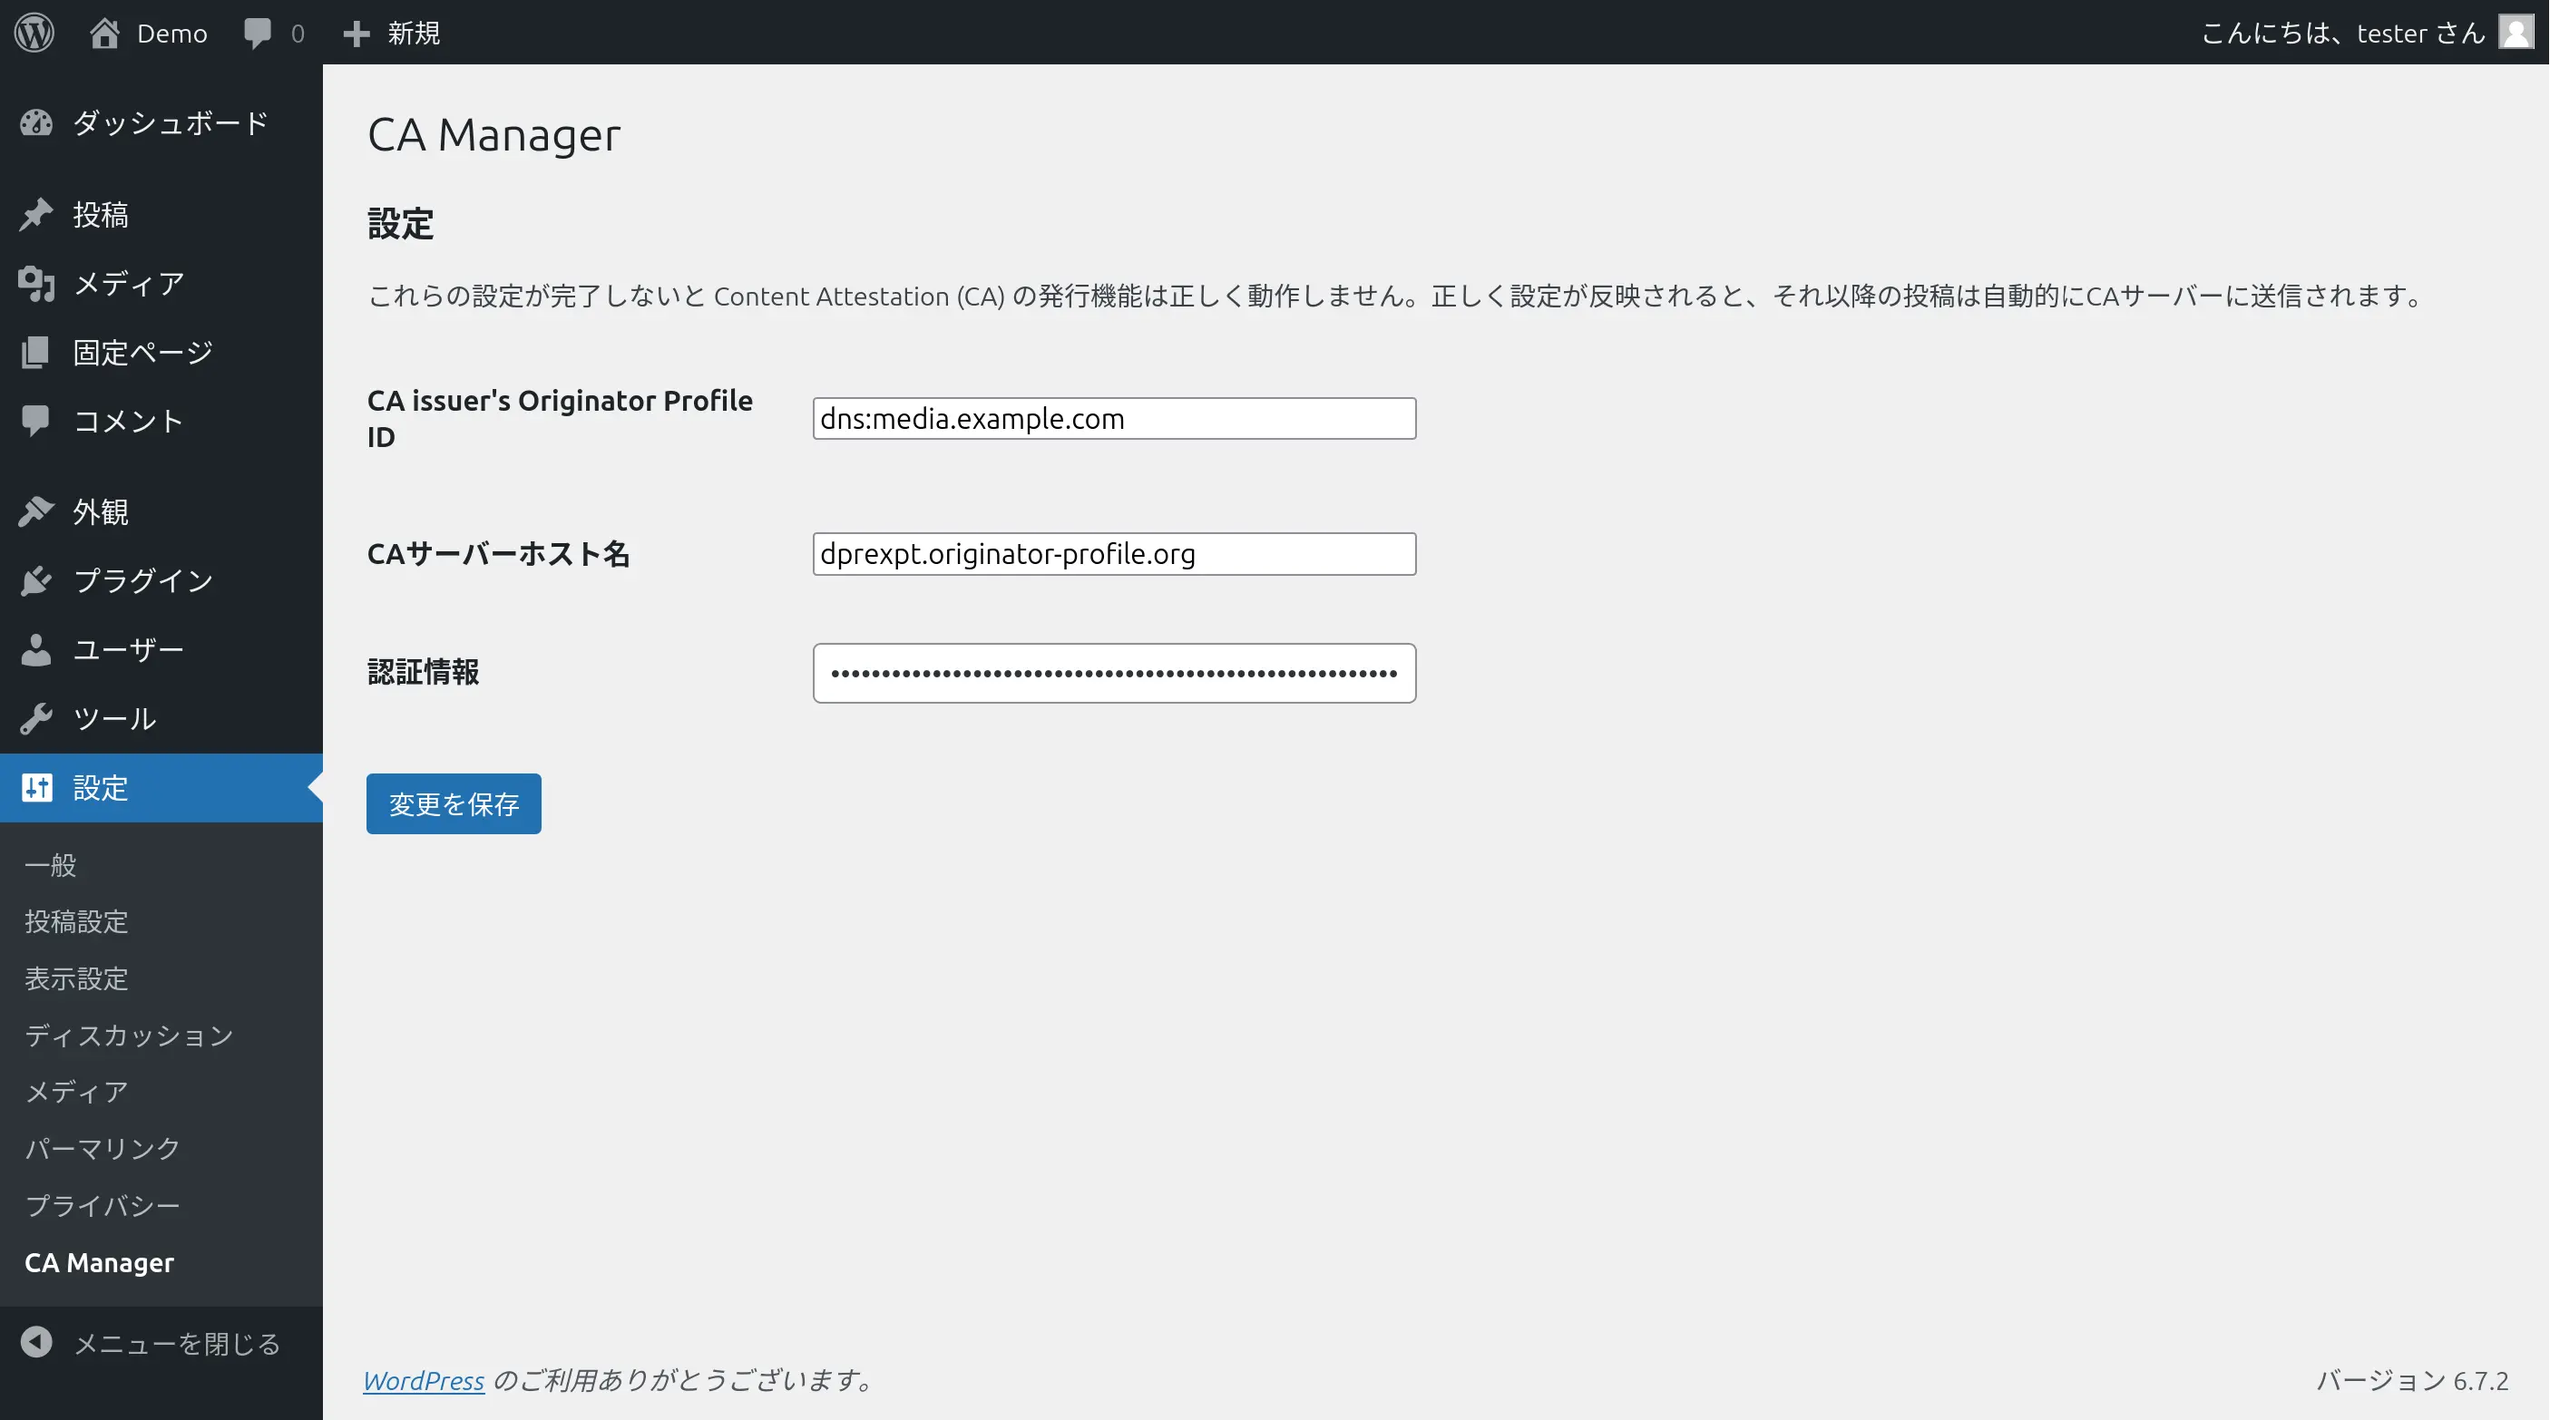
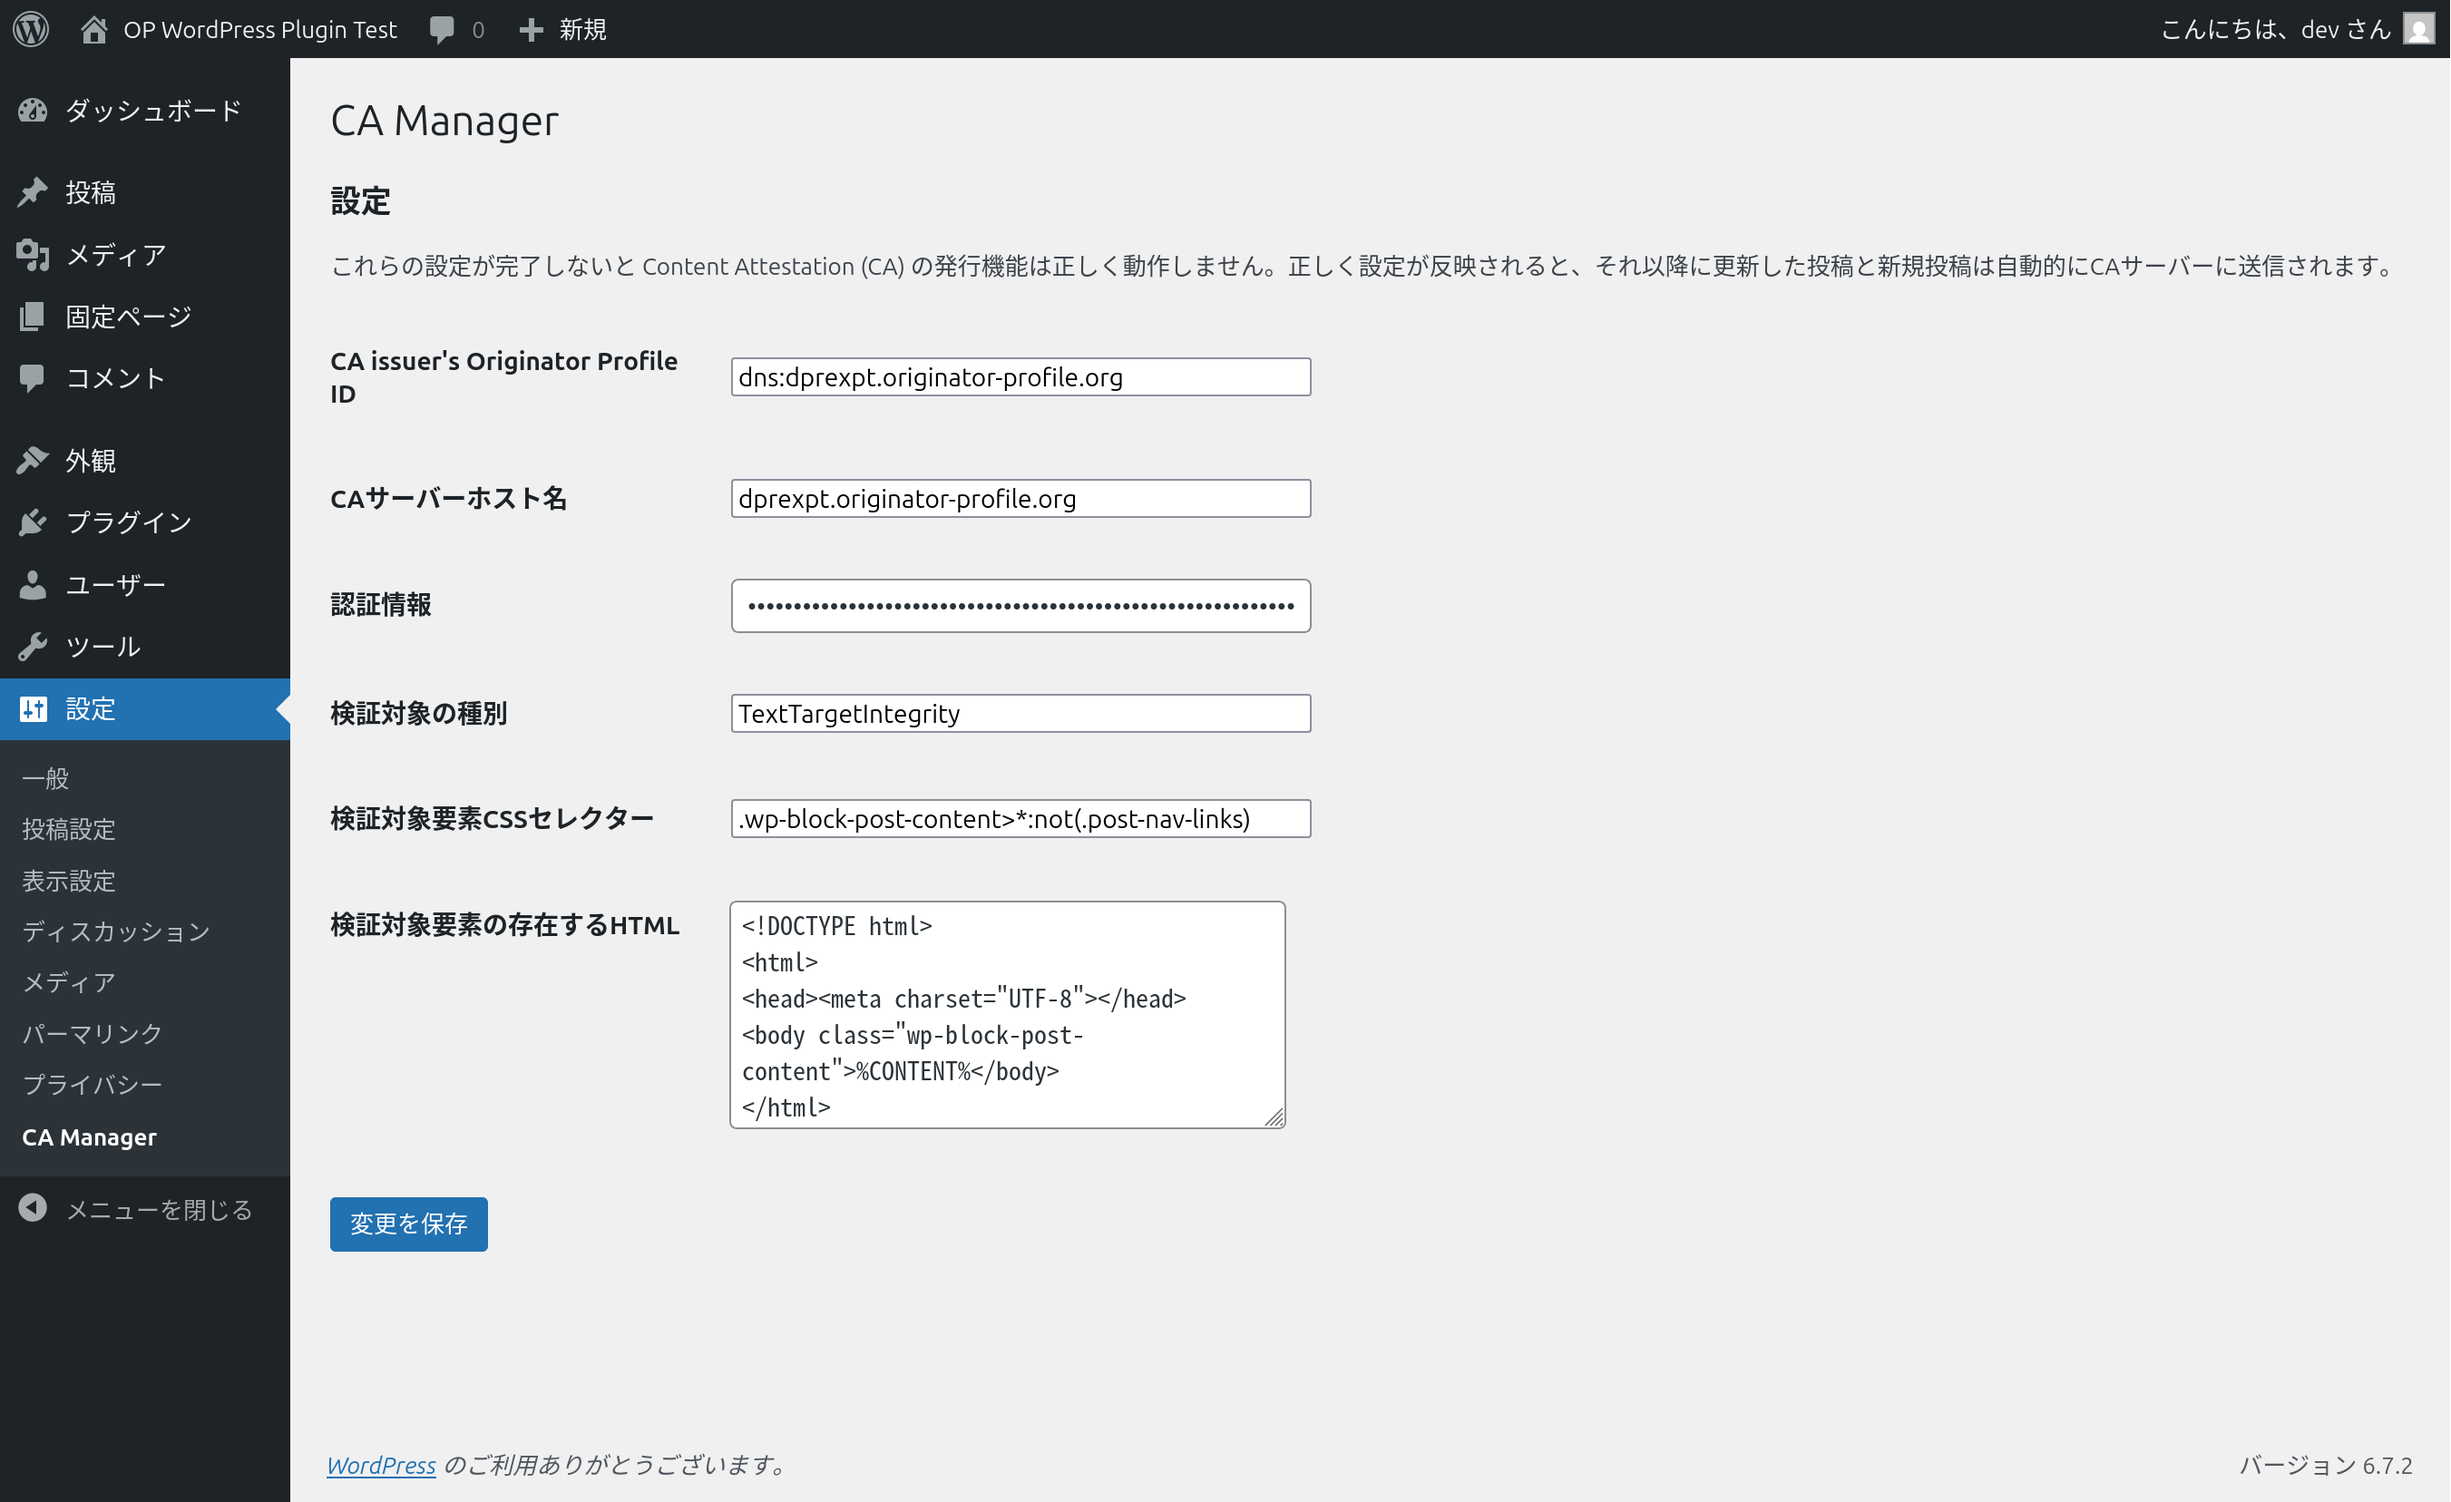
feat(wordpress): 検証対象要素の設定 (#2016)
resolved #2008

diff --git a/packages/wordpress/includes/admin.php b/packages/wordpress/includes/admin.php
@@ -5,6 +5,9 @@ namespace Profile\Admin;
 
 require_once __DIR__ . '/config.php';
 use const Profile\Config\PROFILE_DEFAULT_CA_SERVER_HOSTNAME;
+use const Profile\Config\PROFILE_DEFAULT_CA_TARGET_TYPE;
+use const Profile\Config\PROFILE_DEFAULT_CA_TARGET_CSS_SELECTOR;
+use const Profile\Config\PROFILE_DEFAULT_CA_TARGET_HTML;
 
 /** 管理者画面の初期化 */
 function init() {
@@ -19,13 +22,19 @@ function add_options_page() {
 
 /** 設定項目の追加 */
 function register_settings() {
-	\register_setting( 'ca-manager', 'profile_default_ca_server_hostname', array( 'default' => PROFILE_DEFAULT_CA_SERVER_HOSTNAME ) );
+	\register_setting( 'ca-manager', 'profile_ca_server_hostname', array( 'default' => PROFILE_DEFAULT_CA_SERVER_HOSTNAME ) );
 	\register_setting( 'ca-manager', 'profile_ca_issuer_id' );
 	\register_setting( 'ca-manager', 'profile_ca_server_admin_secret' );
+	\register_setting( 'ca-manager', 'profile_ca_target_type', array( 'default' => PROFILE_DEFAULT_CA_TARGET_TYPE ) );
+	\register_setting( 'ca-manager', 'profile_ca_target_css_selector', array( 'default' => PROFILE_DEFAULT_CA_TARGET_CSS_SELECTOR ) );
+	\register_setting( 'ca-manager', 'profile_ca_target_html', array( 'default' => PROFILE_DEFAULT_CA_TARGET_HTML ) );
 	\add_settings_section( 'profile_settings', '設定', '\Profile\Admin\profile_settings_section', 'ca-manager' );
 	\add_settings_field( 'profile_ca_issuer_id', 'CA issuer\'s Originator Profile ID', '\Profile\Admin\profile_ca_issuer_id_field', 'ca-manager', 'profile_settings' );
-	\add_settings_field( 'profile_default_ca_server_hostname', 'CAサーバーホスト名', '\Profile\Admin\profile_ca_server_hostname_field', 'ca-manager', 'profile_settings' );
+	\add_settings_field( 'profile_ca_server_hostname', 'CAサーバーホスト名', '\Profile\Admin\profile_ca_server_hostname_field', 'ca-manager', 'profile_settings' );
 	\add_settings_field( 'profile_ca_server_admin_secret', '認証情報', '\Profile\Admin\profile_ca_server_admin_secret_field', 'ca-manager', 'profile_settings' );
+	\add_settings_field( 'profile_ca_target_type', '検証対象の種別', '\Profile\Admin\profile_ca_target_type_field', 'ca-manager', 'profile_settings' );
+	\add_settings_field( 'profile_ca_target_css_selector', '検証対象要素CSSセレクター', '\Profile\Admin\profile_ca_target_css_selector_field', 'ca-manager', 'profile_settings' );
+	\add_settings_field( 'profile_ca_target_html', '検証対象要素の存在するHTML', '\Profile\Admin\profile_ca_target_html_field', 'ca-manager', 'profile_settings' );
 }
 
 /** 設定画面 */
@@ -45,7 +54,7 @@ function settings_page() {
 /** 設定セクション */
 function profile_settings_section() {
 	?>
-		<p>これらの設定が完了しないと Content Attestation (CA) の発行機能は正しく動作しません。正しく設定が反映されると、それ以降の投稿は自動的にCAサーバーに送信されます。</p>
+		<p>これらの設定が完了しないと Content Attestation (CA) の発行機能は正しく動作しません。正しく設定が反映されると、それ以降に更新した投稿と新規投稿は自動的にCAサーバーに送信されます。</p>
 	<?php
 }
 
@@ -58,7 +67,7 @@ function profile_ca_issuer_id_field() {
 			title="自身のOriginator Profile IDを入力してください (例: dns:media.example.com)"
 			placeholder="dns:media.example.com"
 			required
-			style="width: 300px;"
+			style="width: 320px;"
 		>
 	<?php
 }
@@ -67,12 +76,12 @@ function profile_ca_issuer_id_field() {
 function profile_ca_server_hostname_field() {
 	?>
 		<input
-			name="profile_default_ca_server_hostname"
-			value="<?php echo \esc_attr( \get_option( 'profile_default_ca_server_hostname' ) ); ?>"
+			name="profile_ca_server_hostname"
+			value="<?php echo \esc_attr( \get_option( 'profile_ca_server_hostname' ) ); ?>"
 			title="有効なドメイン名を入力してください (例: dprexpt.originator-profile.org)"
-			placeholder="dprexpt.originator-profile.org"
+			placeholder="<?php echo \esc_attr( PROFILE_DEFAULT_CA_SERVER_HOSTNAME ); ?>"
 			required
-			style="width: 300px;"
+			style="width: 320px;"
 		>
 	<?php
 }
@@ -87,7 +96,53 @@ function profile_ca_server_admin_secret_field() {
 			type="password"
 			autocomplete="off"
 			required
-			style="width: 300px;"
+			style="width: 320px;"
 		>
+	<?php
+}
+
+/** 検証対象の種別フィールド */
+function profile_ca_target_type_field() {
+	?>
+		<input
+			name="profile_ca_target_type"
+			value="<?php echo \esc_attr( \get_option( 'profile_ca_target_type' ) ); ?>"
+			list="target_integrity_type"
+			title="検証対象の種別を入力してください (例: TextTargetIntegrity)"
+			placeholder="<?php echo \esc_attr( PROFILE_DEFAULT_CA_TARGET_TYPE ); ?>"
+			required
+			style="width: 320px;"
+		>
+		<datalist id="target_integrity_type">
+			<option>HTMLTargetIntegrity</option>
+			<option>TextTargetIntegrity</option>
+			<option>VisibleTextTargetIntegrity</option>
+		</datalist>
+	<?php
+}
+
+/** 検証対象要素CSSセレクターフィールド */
+function profile_ca_target_css_selector_field() {
+	?>
+		<input
+			name="profile_ca_target_css_selector"
+			value="<?php echo \esc_attr( \get_option( 'profile_ca_target_css_selector' ) ); ?>"
+			title="CSS セレクターを入力してください"
+			placeholder="<?php echo \esc_attr( PROFILE_DEFAULT_CA_TARGET_CSS_SELECTOR ); ?>"
+			required
+			style="width: 320px;"
+		>
+	<?php
+}
+
+/** 検証対象要素の存在するHTML */
+function profile_ca_target_html_field() {
+	?>
+		<textarea
+			name="profile_ca_target_html"
+			title="%CONTENT% → WordPress post content after applying apply_filters()"
+			style="font-family: monospace;"
+			rows="6"
+		><?php echo \esc_html( \get_option( 'profile_ca_target_html' ) ); ?></textarea>
 	<?php
 }

diff --git a/packages/wordpress/includes/issue.php b/packages/wordpress/includes/issue.php
@@ -8,6 +8,9 @@ use Profile\Uca\Uca;
 
 require_once __DIR__ . '/config.php';
 use const Profile\Config\PROFILE_DEFAULT_CA_SERVER_HOSTNAME;
+use const Profile\Config\PROFILE_DEFAULT_CA_TARGET_TYPE;
+use const Profile\Config\PROFILE_DEFAULT_CA_TARGET_CSS_SELECTOR;
+use const Profile\Config\PROFILE_DEFAULT_CA_TARGET_HTML;
 
 require_once __DIR__ . '/url.php';
 use function Profile\Url\add_page_query;
@@ -36,7 +39,7 @@ function sign_post( string $new_status, string $old_status, \WP_Post $post ) {
 	}
 
 	$admin_secret = \get_option( 'profile_ca_server_admin_secret' );
-	$hostname     = \get_option( 'profile_default_ca_server_hostname', PROFILE_DEFAULT_CA_SERVER_HOSTNAME );
+	$hostname     = \get_option( 'profile_ca_server_hostname', PROFILE_DEFAULT_CA_SERVER_HOSTNAME );
 	$issuer_id    = \get_option( 'profile_ca_issuer_id' );
 	$endpoint     = "https://{$hostname}/ca";
 
@@ -144,7 +147,7 @@ function create_uca_list( \WP_Post $post, string $issuer_id ): array {
 		++$page;
 
 		$content            = \apply_filters( 'the_content', $content );
-		$html               = content_to_html( $content );
+		$html               = content_to_html( $content, \get_option( 'profile_ca_target_html', PROFILE_DEFAULT_CA_TARGET_HTML ) );
 		$external_resources = external_resources_from_html( $html, '//*[contains(@class, "wp-block-image")]//img[@integrity]' );
 
 		if ( defined( 'WP_DEBUG' ) && WP_DEBUG ) {
@@ -178,6 +181,8 @@ function create_uca_list( \WP_Post $post, string $issuer_id ): array {
 			url: $permalink,
 			locale: $locale,
 			html: $html,
+			target_type: \get_option( 'profile_ca_target_type', PROFILE_DEFAULT_CA_TARGET_TYPE ),
+			target_css_selector: \get_option( 'profile_ca_target_css_selector', PROFILE_DEFAULT_CA_TARGET_CSS_SELECTOR ),
 			external_resources: $external_resources,
 			headline: $post->post_title,
 			image: \has_post_thumbnail( $post ) ? \get_the_post_thumbnail_url( $post ) : null,
@@ -194,19 +199,14 @@ function create_uca_list( \WP_Post $post, string $issuer_id ): array {
 }
 
 /**
- * ページの内容からHTMLへの変換
+ * WordPress post contentからHTMLへの変換
  *
- * @param string $content ページの内容
+ * @param string $content WordPress post content
+ * @param string $template テンプレート (%CONTENT% を置換)
  * @return string HTML
  */
-function content_to_html( string $content ): string {
-	return <<<EOD
-<!DOCTYPE html>
-<html>
-<head><meta charset="UTF-8"></head>
-<body class="wp-block-post-content">{$content}</body>
-</html>
-EOD;
+function content_to_html( string $content, string $template ): string {
+	return \str_replace( '%CONTENT%', $content, $template );
 }
 
 /**

diff --git a/packages/wordpress/includes/class-uca.php b/packages/wordpress/includes/class-uca.php
@@ -4,8 +4,6 @@
 namespace Profile\Uca;
 
 require_once __DIR__ . '/config.php';
-use const Profile\Config\PROFILE_CA_TARGET_TYPE;
-use const Profile\Config\PROFILE_CA_TARGET_CSS_SELECTOR;
 
 /** 未署名 Content Attestation */
 final class Uca {
@@ -16,6 +14,8 @@ final class Uca {
 	 * @param string  $url 投稿のパーマリンクURL
 	 * @param string  $locale ロケール
 	 * @param string  $html HTML
+	 * @param string  $target_type 検証対象の種別
+	 * @param string  $target_css_selector 検証する対象の要素 CSS セレクター
 	 * @param array   $external_resources 外部リソース
 	 * @param ?string $headline (optional) タイトル
 	 * @param ?string $image (optional) 画像URL
@@ -29,6 +29,8 @@ final class Uca {
 		public string $url,
 		public string $locale,
 		public string $html,
+		public string $target_type,
+		public string $target_css_selector,
 		public array $external_resources,
 		public ?string $headline = null,
 		public ?string $image = null,
@@ -69,9 +71,9 @@ final class Uca {
 			'target'            => array_merge(
 				array(
 					array(
-						'type'        => PROFILE_CA_TARGET_TYPE,
+						'type'        => $this->target_type,
 						'content'     => $this->html,
-						'cssSelector' => PROFILE_CA_TARGET_CSS_SELECTOR,
+						'cssSelector' => $this->target_css_selector,
 					),
 				),
 				array_map(

diff --git a/packages/wordpress/includes/config.php b/packages/wordpress/includes/config.php
@@ -6,8 +6,17 @@ namespace Profile\Config;
 /** Content Attestation サーバーのホスト名の設定の初期値 */
 const PROFILE_DEFAULT_CA_SERVER_HOSTNAME = 'dprexpt.originator-profile.org';
 
-/** 検証する対象の型 */
-const PROFILE_CA_TARGET_TYPE = 'TextTargetIntegrity';
+/** 検証対象の種別の初期値 */
+const PROFILE_DEFAULT_CA_TARGET_TYPE = 'TextTargetIntegrity';
 
-/** 検証する対象の要素 */
-const PROFILE_CA_TARGET_CSS_SELECTOR = '.wp-block-post-content>*:not(.post-nav-links)';
+/** 検証対象要素 CSS セレクターの初期値 */
+const PROFILE_DEFAULT_CA_TARGET_CSS_SELECTOR = '.wp-block-post-content>*:not(.post-nav-links)';
+
+/** 検証対象要素の存在する HTML の初期値 (%CONTENT% → WordPress post content after applying apply_filters()) */
+const PROFILE_DEFAULT_CA_TARGET_HTML = <<<'EOD'
+<!DOCTYPE html>
+<html>
+<head><meta charset="UTF-8"></head>
+<body class="wp-block-post-content">%CONTENT%</body>
+</html>
+EOD;

diff --git a/packages/wordpress/tests/issue.test.php b/packages/wordpress/tests/issue.test.php
@@ -3,6 +3,10 @@ use PHPUnit\Framework\TestCase;
 
 const WP_CONTENT_DIR = '/tmp';
 
+
+require_once __DIR__ . '/../includes/config.php';
+use const Profile\Config\PROFILE_DEFAULT_CA_TARGET_HTML;
+
 require_once __DIR__ . '/../includes/issue.php';
 use function Profile\Issue\content_to_html;
 
@@ -15,7 +19,7 @@ final class Issue extends TestCase {
 <p>本文2</p>
 EOD;
 
-		$text = content_to_html( $content );
+		$text = content_to_html( $content, PROFILE_DEFAULT_CA_TARGET_HTML );
 		$this->assertSame(
 			<<<'EOD'
 <!DOCTYPE html>
